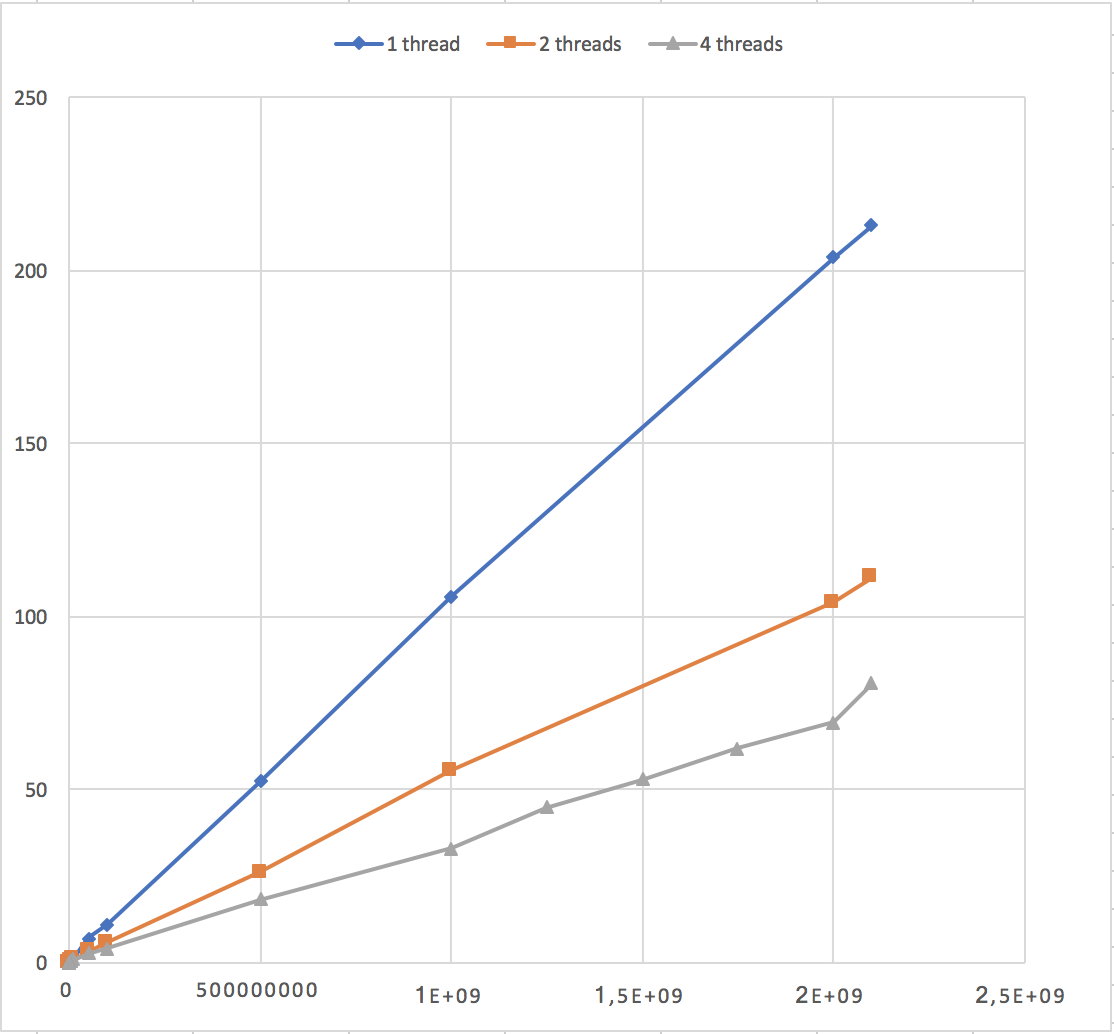
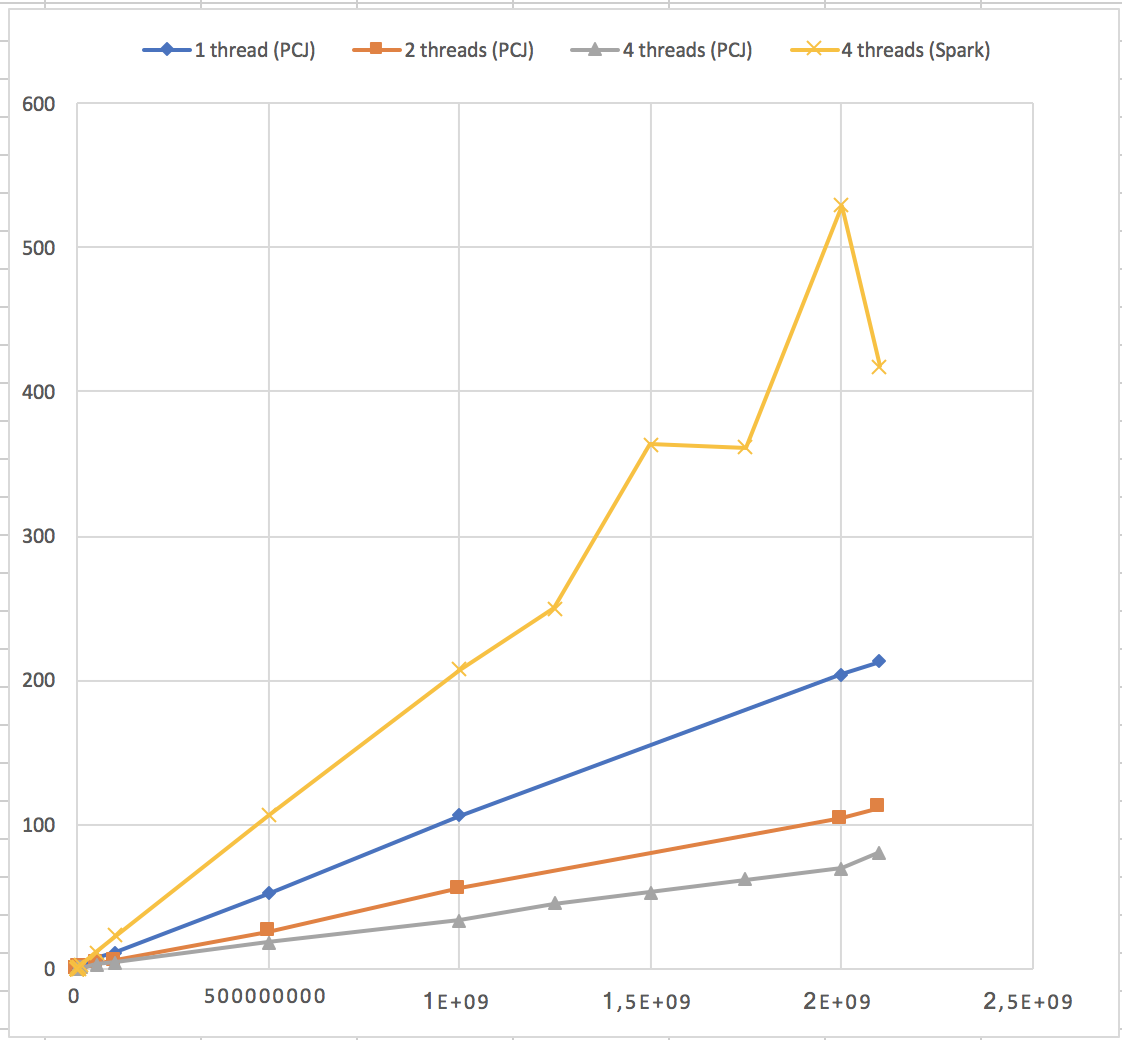
chart + results

diff --git a/README.md b/README.md
@@ -34,4 +34,5 @@
 - Parameters about cores in Spark does not work (https://spoddutur.github.io/spark-notes/distribution_of_executors_cores_and_memory_for_spark_application.html)
 - Spark (with Scala) is at least 2 times slower than PCJ version (up to 5-6 times with 2 billions iterations)
 - Running code in Spark with different parameters in parallelize() method should optimize execution time
-- Spark is typical "black-box" technology, developer does not care about writing too much code and how it works inside   
+- Spark is typical "black-box" technology, developer does not care about writing too much code and how it works inside
+- Chart results/results.png show us that, Spark version of this program is slower in every case than 1 thread program in pure Java (using PCJ)   
